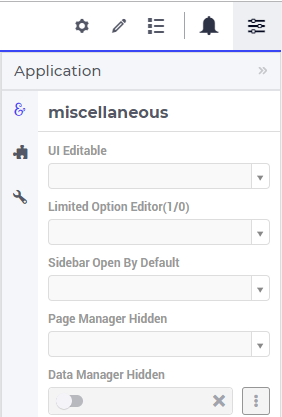
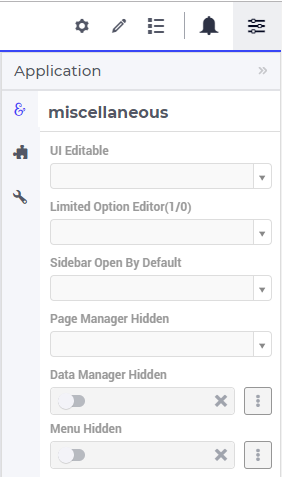
Added content for Menu Hidden option in Application Settings

Changed region(s): [[0.0, 0.0312, 0.9929, 1.0], [0.0284, 0.2182, 0.1135, 0.4988], [0.7376, 0.8106, 0.8227, 0.8729]]

diff --git a/webui/application-settings.rst b/webui/application-settings.rst
@@ -350,3 +350,8 @@ Data Manager Hidden
 +++++++++++++++++++
 
 This is a logical condition which determines whether or not the Data Manager button on the menu bar is visible or is hidden.
+
+Menu Hidden
++++++++++++
+
+This is a logical condition which determines whether or not the dropdown navigation menu is visible or is hidden.
